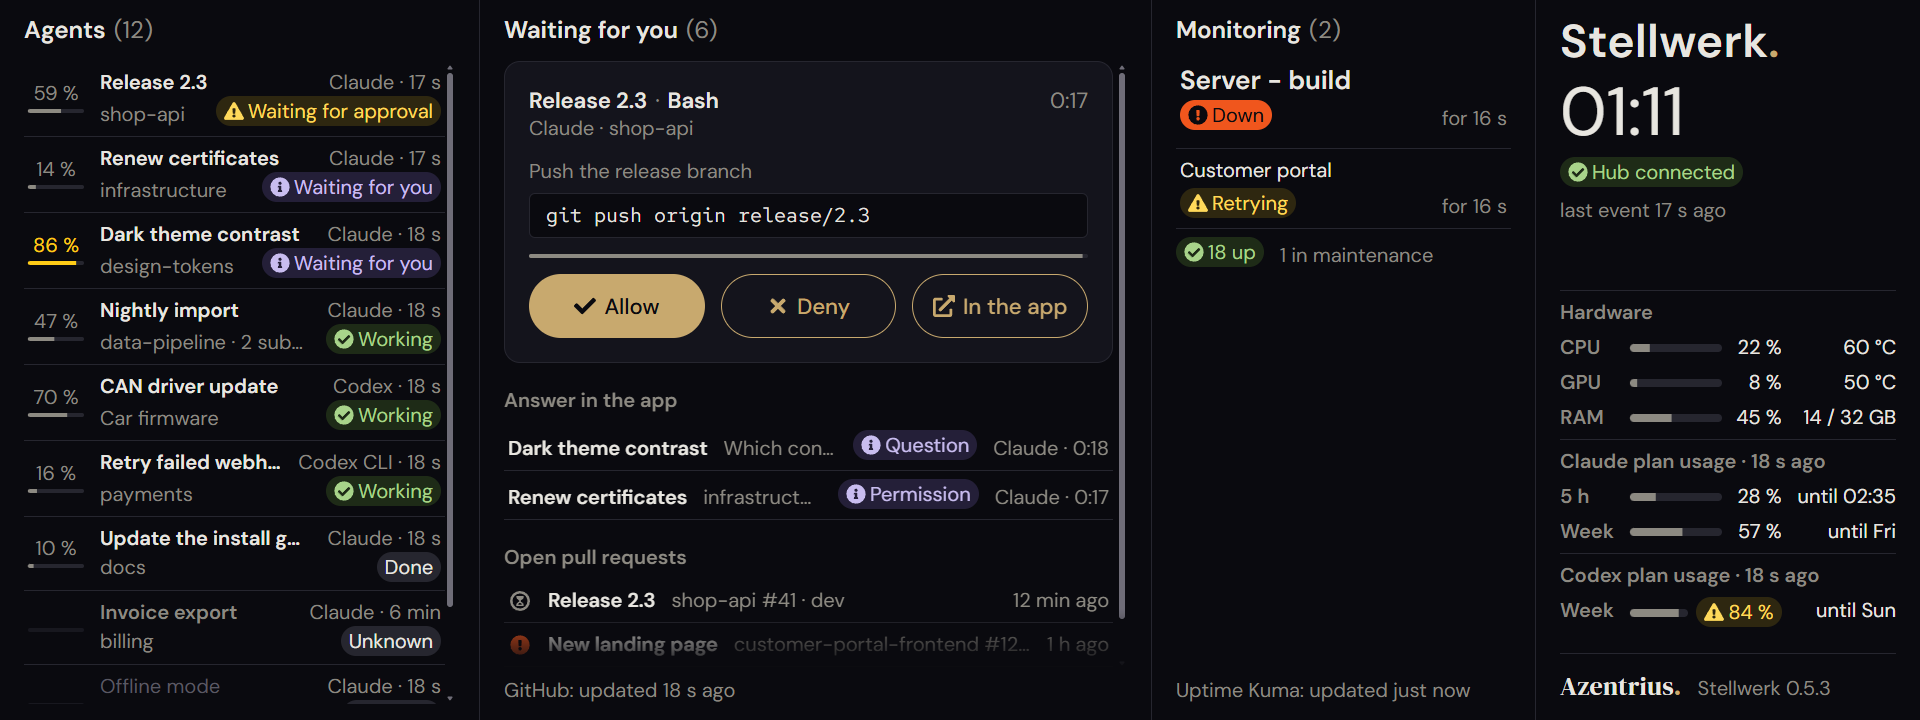
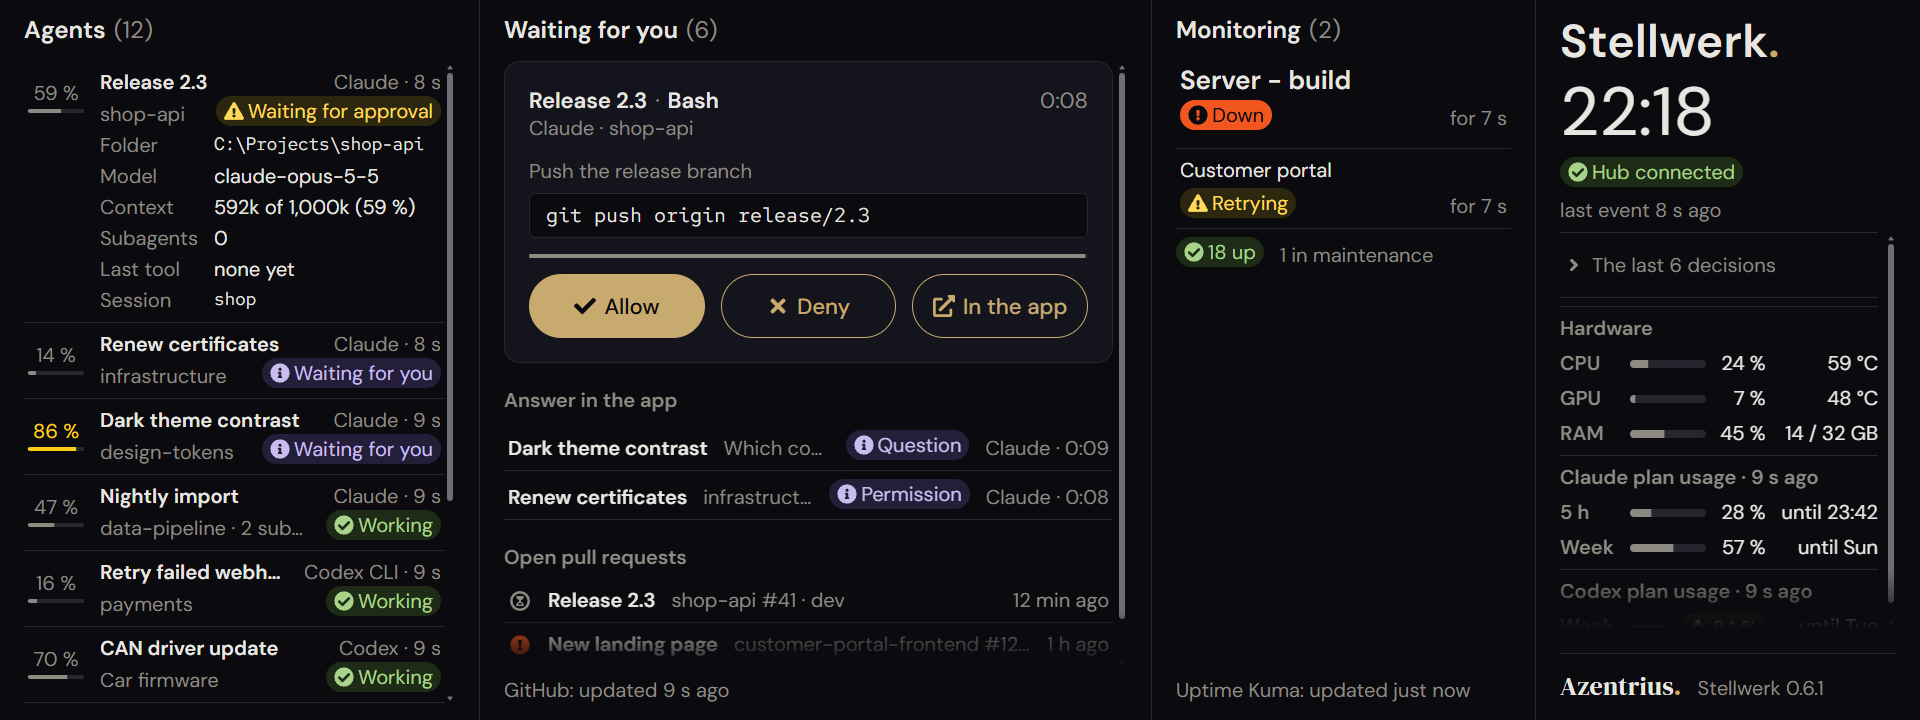
Tell a missing task from an unreadable one everywhere (#54)
`taskExists()` took any failure of `schtasks /Query` for a missing task.
The update has asked Task Scheduler itself since 0.5.4; now the other
commands do too. Version 0.6.1.

## What went wrong

`schtasks` fails alike for a missing task and for one it may not read
(exit 1, words in the system's language). Taking every failure for
"missing":

- `stellwerk autostart uninstall` said there were no Stellwerk tasks, or
removed only the one it could read;
- `stellwerk hardware install` and `uninstall` skipped ending the
hardware monitor's task.

## The fix

- `taskExists()` now does what `taskDefinition()` did since 0.5.4. When
`schtasks /Query` fails, it asks Task Scheduler's own interface for its
error code: PowerShell, COM `Schedule.Service` `GetTask`, the name on
stdin.
- Only `0x80070002` counts as missing. Anything else throws with the
reason, before the command changes anything: access denied, Task
Scheduler not answering, a failing question.
- `taskDefinition()` now builds on `taskExists()`; its behaviour is the
same.

## Tests

- `test/autostart-cli.test.ts` runs the real command line against the
made-up Windows of `test/support/fake-windows.ts`, which now also
deletes Stellwerk's two tasks:
  - both tasks removed;
  - one missing (left out);
  - none ("There are no Stellwerk tasks");
- one task access denied: stops, and not even the readable task is
removed;
  - Task Scheduler not answering: stops.
- Against the old `windows.ts` the access-denied case fails.
[…]

diff --git a/test/autostart-cli.test.ts b/test/autostart-cli.test.ts
@@ -1,0 +1,77 @@
+// `stellwerk autostart uninstall` as a user runs it: the real command line in a process of its own, with
+// Windows made up by test/support/fake-windows.ts (tasks and faults of their query; every program it would
+// start is written down, none runs). Only a task Task Scheduler reports as missing is left out; one it
+// cannot read stops the command before anything is removed.
+//
+// SPDX-License-Identifier: Apache-2.0
+
+import assert from 'node:assert/strict';
+import { spawn } from 'node:child_process';
+import fs from 'node:fs';
+import os from 'node:os';
+import path from 'node:path';
+import { describe, test } from 'node:test';
+import { pathToFileURL } from 'node:url';
+import { DISPLAY_TASK, HUB_TASK } from '../src/setup/autostart.ts';
+import type { Call, FakeWindows, TaskFault } from './support/fake-windows.ts';
+
+const CLI = path.join(import.meta.dirname, '..', 'src', 'cli.ts');
+const FAKE = pathToFileURL(path.join(import.meta.dirname, 'support', 'fake-windows.ts')).href;
+const ACCESS_DENIED = -2147024891;
+
+/** Runs `stellwerk autostart uninstall --yes` against the made-up Windows. */
+async function uninstall(tasks: Record<string, string>, faults?: Record<string, TaskFault>) {
+  const dir = fs.mkdtempSync(path.join(os.tmpdir(), 'stellwerk-autostart-cli-'));
+  try {
+    const fake: FakeWindows = { screens: [], tasks, faults, hub: { running: false }, calls: path.join(dir, 'calls.jsonl') };
+    fs.writeFileSync(fake.calls, '');
+    const child = spawn(process.execPath, ['--import', FAKE, CLI, 'autostart', 'uninstall', '--yes'], {
+      env: { ...process.env, APPDATA: path.join(dir, 'roaming'), LOCALAPPDATA: path.join(dir, 'local'), STELLWERK_FAKE_WINDOWS: JSON.stringify(fake) },
+    });
+    let output = '';
+    child.stdout.setEncoding('utf8').on('data', (chunk: string) => (output += chunk));
+    child.stderr.setEncoding('utf8').on('data', (chunk: string) => (output += chunk));
+    const status = await new Promise<number | null>((resolve) => child.on('close', resolve));
+    const calls = fs
+      .readFileSync(fake.calls, 'utf8')
+      .split('\n')
+      .filter(Boolean)
+      .map((line) => JSON.parse(line) as Call);
+    const deleted = calls.filter((c) => c.command === 'schtasks' && c.args[0] === '/Delete').map((c) => c.args[c.args.indexOf('/TN') + 1]);
+    return { status, output, deleted };
+  } finally {
+    fs.rmSync(dir, { recursive: true, force: true });
+  }
+}
+
+describe('stellwerk autostart uninstall', { concurrency: true }, () => {
+  test('removes the tasks that are there', async () => {
+    const both = await uninstall({ [HUB_TASK]: '<Task/>', [DISPLAY_TASK]: '<Task/>' });
+    assert.equal(both.status, 0, both.output);
+    assert.deepEqual(both.deleted, [HUB_TASK, DISPLAY_TASK]);
+    assert.match(both.output, /Removed\./);
+    const one = await uninstall({ [HUB_TASK]: '<Task/>' });
+    assert.equal(one.status, 0, one.output);
+    assert.deepEqual(one.deleted, [HUB_TASK], 'the one Task Scheduler reports as missing is left out');
+  });
+
+  test('says so when Task Scheduler reports both as missing, in whatever language schtasks answers', async () => {
+    const none = await uninstall({});
+    assert.equal(none.status, 0, none.output);
+    assert.match(none.output, /There are no Stellwerk tasks/);
+    assert.deepEqual(none.deleted, []);
+  });
+
+  test('a task Task Scheduler cannot read stops it before anything is removed, instead of counting as missing', async () => {
+    const tasks = { [HUB_TASK]: '<Task/>', [DISPLAY_TASK]: '<Task/>' };
+    const denied = await uninstall(tasks, { [DISPLAY_TASK]: { query: 'FEHLER: Zugriff verweigert', code: ACCESS_DENIED } });
+    assert.equal(denied.status, 1, denied.output);
+    assert.match(denied.output, /Task Scheduler could not read the task "Stellwerk display": FEHLER: Zugriff verweigert \(code 0x80070005\)/);
+    assert.deepEqual(denied.deleted, [], 'not even the hub task, which could be read');
+    assert.doesNotMatch(denied.output, /There are no Stellwerk tasks/);
+    const silent = await uninstall({}, { [HUB_TASK]: { query: 'FEHLER: Unbekannter Fehler', powershell: 'Die Aufgabenplanung antwortet nicht.' } });
+    assert.equal(silent.status, 1, silent.output);
+    assert.match(silent.output, /could not read the task "Stellwerk hub"/);
+    assert.deepEqual(silent.deleted, []);
+  });
+});

diff --git a/tools/demo.ts b/tools/demo.ts
@@ -22,6 +22,8 @@ const { version } = JSON.parse(fs.readFileSync(path.join(ROOT, 'package.json'), 
 const hoursAgo = (h: number) => new Date(Date.now() - h * 3_600_000).toISOString();
 const fakeGitHub: Record<string, unknown> = {
   '/orgs/example/repos': [{ name: 'shop-api' }, { name: 'customer-portal-frontend' }],
+  // Stellwerk's newest release is the one running: no note on the display.
+  '/repos/Azentrius/stellwerk/releases/latest': { tag_name: `v${version}` },
   '/repos/example/shop-api/pulls': [
     { number: 41, title: 'Release 2.3', updated_at: hoursAgo(0.2), user: { login: 'dev' }, head: { sha: 'a'.repeat(40) } },
     { number: 39, title: 'Bump zod from 4.1 to 4.2', updated_at: hoursAgo(5), user: { login: 'dependabot[bot]' }, head: { sha: 'b'.repeat(40) } },
@@ -157,6 +159,20 @@ fs.writeFileSync(
     lastRun('onboarding', 'Onboarding docs', 'docs', 180),
     lastRun('cleanup', 'Remove old flags', 'shop-api', 240),
   ]),
+);
+// Decisions of the last run in the audit log: the status column folds them into one line.
+const decided = (minutesAgo: number, tool: string, input: Record<string, unknown>, result: string, title: string, project: string) =>
+  JSON.stringify({ ts: new Date(Date.now() - minutesAgo * 60_000).toISOString(), request: `earlier-${minutesAgo}`, project, title, provider: 'claude', tool, input, result });
+fs.writeFileSync(
+  path.join(demoDir, 'audit.jsonl'),
+  [
+    decided(95, 'Bash', { command: 'npm run migrate -- --env staging' }, 'allowed', 'Invoice export', 'billing'),
+    decided(70, 'Edit', { file_path: 'C:\\Projects\\shop-api\\src\\flags.ts' }, 'allowed', 'Remove old flags', 'shop-api'),
+    decided(52, 'Bash', { command: 'git push --force origin main' }, 'denied', 'Remove old flags', 'shop-api'),
+    decided(31, 'WebFetch', { url: 'https://example.com/api/changelog' }, 'decided-in-app', 'Search spike', 'search'),
+    decided(18, 'Bash', { command: 'npm test' }, 'allowed', 'Invoice export', 'billing'),
+    decided(9, 'PowerShell', { command: 'Remove-Item build -Recurse' }, 'timed-out', 'Onboarding docs', 'docs'),
+  ].join('\n') + '\n',
 );
 const codexStateFile = path.join(demoDir, 'codex', '.codex-global-state.json');
 fs.writeFileSync(

diff --git a/src/setup/windows.ts b/src/setup/windows.ts
@@ -72,13 +72,27 @@ export function registerTask(name: string, xml: string): void {
   }
 }
 
+/**
+ * Whether the task is there. It is missing only when Task Scheduler itself says so: a task that could not
+ * be read, or a Task Scheduler that does not answer, throws instead of counting as missing.
+ */
 export function taskExists(name: string): boolean {
   requireWindows();
   try {
     run('schtasks', ['/Query', '/TN', name]);
     return true;
-  } catch {
-    return false;
+  } catch (err) {
+    // schtasks fails alike when the task is missing and when it cannot be read (exit 1, a message in the
+    // system's language); Task Scheduler's own error code tells the two apart.
+    let code: number;
+    try {
+      code = taskQueryCode(name);
+    } catch (inner) {
+      const { stderr } = inner as { stderr?: string };
+      throw unreadableTask(name, `${(err as Error).message}; ${(String(stderr ?? '').trim() || (inner as Error).message).slice(0, 300)}`);
+    }
+    if (code === TASK_NOT_FOUND) return false;
+    throw unreadableTask(name, `${(err as Error).message} (code 0x${(code >>> 0).toString(16)})`);
   }
 }
 
@@ -90,22 +104,7 @@ export const TASK_NOT_FOUND = -2147024894;
  * A task that could not be read is not a missing one: then this throws.
  */
 export function taskDefinition(name: string): string | null {
-  requireWindows();
-  try {
-    run('schtasks', ['/Query', '/TN', name]);
-  } catch (err) {
-    // schtasks fails alike when the task is missing and when it cannot be read (exit 1, a message in the
-    // system's language); Task Scheduler's own error code tells the two apart.
-    let code: number;
-    try {
-      code = taskQueryCode(name);
-    } catch (inner) {
-      const { stderr } = inner as { stderr?: string };
-      throw unreadableTask(name, `${(err as Error).message}; ${(String(stderr ?? '').trim() || (inner as Error).message).slice(0, 300)}`);
-    }
-    if (code === TASK_NOT_FOUND) return null;
-    throw unreadableTask(name, `${(err as Error).message} (code 0x${(code >>> 0).toString(16)})`);
-  }
+  if (!taskExists(name)) return null;
   try {
     return run('schtasks', ['/Query', '/TN', name, '/XML']);
   } catch (err) {

diff --git a/test/support/fake-windows.ts b/test/support/fake-windows.ts
@@ -15,7 +15,7 @@ import fs from 'node:fs';
 import { syncBuiltinESMExports } from 'node:module';
 import net from 'node:net';
 import path from 'node:path';
-import { HUB_TASK, type Screen } from '../../src/setup/autostart.ts';
+import { DISPLAY_TASK, HUB_TASK, type Screen } from '../../src/setup/autostart.ts';
 import { withStellwerkCodexHooks } from '../../src/setup/codex-settings.ts';
 
 export interface FakeWindows {
@@ -113,6 +113,11 @@ childProcess.execFileSync = (command: string, args: string[] = [], options: { in
     const xml = fake.tasks[name];
     if (xml === undefined) throw failed('FEHLER: Das System kann die angegebene Datei nicht finden.');
     return args.includes('/XML') ? xml : 'Ordner: \\';
+  }
+  // Stellwerk's two tasks may be deleted (autostart uninstall); a missing one fails as schtasks would.
+  if (command === 'schtasks' && args[0] === '/Delete' && [HUB_TASK, DISPLAY_TASK].includes(args[args.indexOf('/TN') + 1] ?? '')) {
+    if (!((args[args.indexOf('/TN') + 1] ?? '') in fake.tasks)) throw failed('FEHLER: Das System kann die angegebene Datei nicht finden.');
+    return 'ERFOLGREICH';
   }
   // Only the hub's task may be ended and started.
   if (command === 'schtasks' && (args[0] === '/End' || args[0] === '/Run') && args[args.indexOf('/TN') + 1] === HUB_TASK) {

diff --git a/test/windows.test.ts b/test/windows.test.ts
@@ -6,8 +6,12 @@
 import assert from 'node:assert/strict';
 import { randomUUID } from 'node:crypto';
 import { test } from 'node:test';
-import { taskDefinition } from '../src/setup/windows.ts';
+import { taskDefinition, taskExists } from '../src/setup/windows.ts';
 
 test('a task that is not there is null, by Task Scheduler\'s error code', { skip: process.platform !== 'win32' && 'Windows only' }, () => {
   assert.equal(taskDefinition(`Stellwerk test ${randomUUID()}`), null);
+});
+
+test('a task that is not there does not exist, by the same code; asking changes nothing', { skip: process.platform !== 'win32' && 'Windows only' }, () => {
+  assert.equal(taskExists(`Stellwerk test ${randomUUID()}`), false);
 });

diff --git a/README.md b/README.md
@@ -72,10 +72,10 @@ From a [release](https://github.com/Azentrius/stellwerk/releases): download `ste
 `SHA256SUMS`, then in PowerShell (replace the version):
 
 ```powershell
-(Get-FileHash stellwerk-0.6.0.zip).Hash    # must match the line in SHA256SUMS
-gh attestation verify stellwerk-0.6.0.zip --repo Azentrius/stellwerk    # optional, needs gh
-Expand-Archive stellwerk-0.6.0.zip -DestinationPath .
-cd stellwerk-0.6.0
+(Get-FileHash stellwerk-0.6.1.zip).Hash    # must match the line in SHA256SUMS
+gh attestation verify stellwerk-0.6.1.zip --repo Azentrius/stellwerk    # optional, needs gh
+Expand-Archive stellwerk-0.6.1.zip -DestinationPath .
+cd stellwerk-0.6.1
 npm ci --omit=dev
 npm link        # optional: makes the command `stellwerk` available everywhere
 ```
@@ -114,7 +114,7 @@ Without `npm link`, use `node dist/cli.js` wherever this README says `stellwerk`
 Download the new release's `stellwerk-VERSION.zip` and `SHA256SUMS` into one folder, then:
 
 ```powershell
-stellwerk update stellwerk-0.6.0.zip
+stellwerk update stellwerk-0.6.1.zip
 ```
 
 It checks the zip against `SHA256SUMS`, unpacks it into a folder of its own

diff --git a/CHANGELOG.md b/CHANGELOG.md
@@ -1,5 +1,17 @@
 # Changelog
 
+## 0.6.1 – 2026-10-22
+
+A task that Task Scheduler cannot read no longer counts as missing anywhere.
+
+- **`autostart uninstall` and `hardware install`/`uninstall`:** they asked whether a task is there with
+  `schtasks /Query`, which fails alike for a missing task and one it may not read, and took any failure for
+  a missing task: `autostart uninstall` then said there were no Stellwerk tasks, or removed only one of them,
+  and `hardware` skipped ending its task. Now they ask Task Scheduler for its error code, as `update` does
+  since 0.5.4: only "not there" counts as missing, and anything else stops the command before it changes
+  anything. Tested with the real command line against a made-up Windows, and read only against the real
+  Task Scheduler.
+
 ## 0.6.0 – 2026-10-22
 
 An update in one step, and the display says when there is one; the last decisions and a session's details

diff --git a/ROADMAP.md b/ROADMAP.md
@@ -98,6 +98,13 @@ rest.
 
 ---
 
+## 0.6.1 – Task Scheduler read safely everywhere ✅
+
+Done in 0.6.1 (see [CHANGELOG](CHANGELOG.md)): `autostart uninstall` and `hardware` tell a missing task from one
+Task Scheduler cannot read, as `update` does.
+
+---
+
 ## 0.6.0 – Updates in one step ✅
 
 Done in 0.6.0 (see [CHANGELOG](CHANGELOG.md)): `stellwerk update` also moves Codex' hooks, starts the hub
